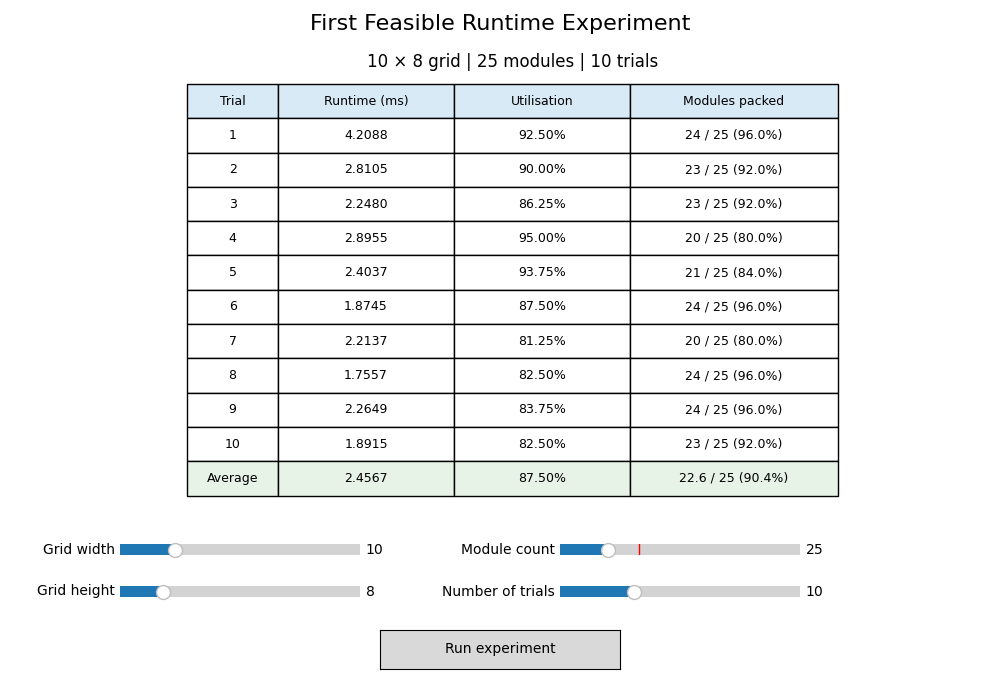
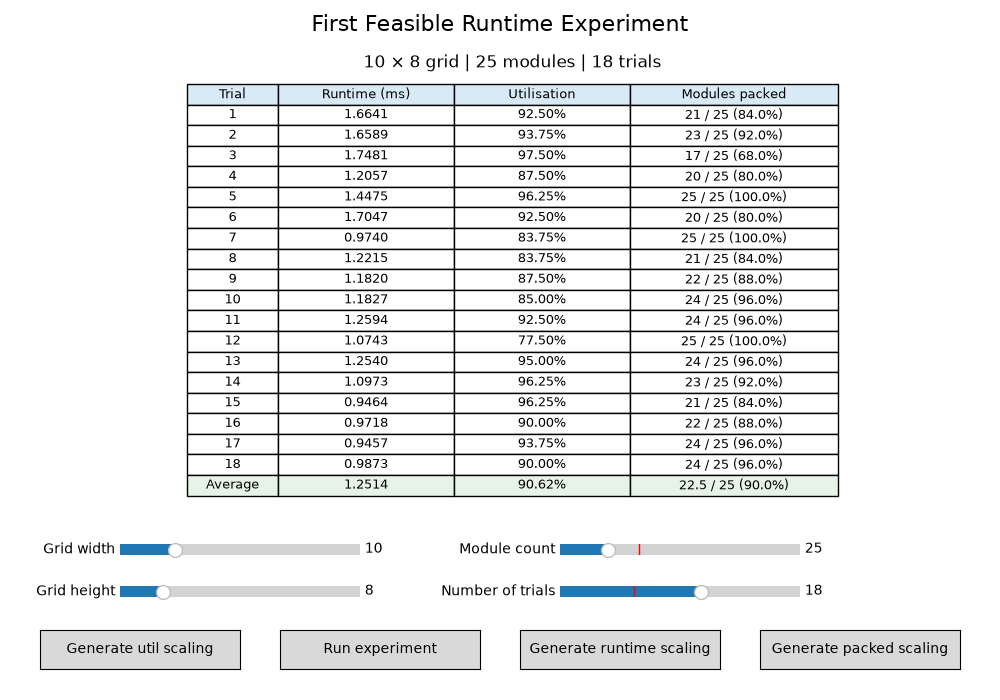
finish up docs

diff --git a/Research/2d Bin Packing/README.md b/Research/2d Bin Packing/README.md
@@ -31,7 +31,7 @@ matplotlib visualiser for inspecting the results interactively.
 
 ### 2.1 The 2D Bin Packing Problem
 
-In a survey by Lodi, Martello & Monaci, the problem of two-dimensional
+In a survey by Lodi, Martello & Monaci (2002), the problem of two-dimensional
 bin packing (2D-BPP) is described as fitting *n* rectangular items into the minimum
 number of identical rectangular bins of width *w* and height *h* [1]. It can be applied 
 in areas such as cutting materials, loading and transportation, where objects cannot
@@ -74,37 +74,31 @@ following rules:
 
 ### 3.1 Next Fit Decreasing Height (NFDH)
 
-The Next Fit Decreasing Height algorithm was one of the heuristics I
-looked at. In this approach, rectangles are sorted by decreasing height and
-placed into the current bin until the next rectangle no longer fits, at which
-point a new bin is started. My continuous Next Fit implementation is kept in
-`cont_bin_packing` folder as part of this work.
+Christensen et al. (2017) describe NFDH as ordering the items from tallest to shortest, before placing them into "shelves". Each shelf consists of items placed next to each other with their bases aligned horizontally, with the first shelf starting at the bottom of the bin and subsequent shelves placed with its base resting flat on top of the tallest item in the shelf below [2].
 
 ### 3.2 First Fit (FF)
 
-Skyline packing was also considered as an alternative approach for the
-investigation.
+First Fit is a simple algorithm where items are considered one at a time. Johnson et al. (1974) describe it as placing each item into the first bin in which it fits. If it cannot be placed in any of the existing bins, a new bin is opened. [3] Once an item has been placed, the algorithm does not at any point go back and change its position. Because of this, the algorithm is less efficient than "enumerate" approaches, but it is certainly faster.
 
-### 3.3 MaxRects
+### 3.3 Maximal Rectangles (MaxRects)
 
-MaxRects was considered alongside First Feasible and shelf-based packing.
+In Jukka Jylänki's paper A Thousand Ways To Pack The Bin, he describes MaxRects as an algorithm that divides the bin into the largest rectangular regions available [4]. When an item is placed, these regions are updated to represent the space that remains available. The algorithm then chooses a suitable free rectangle for the next item using a heuristic such as Best Area Fit or Best Short Side Fit. This allows MaxRects to make use of irregular spaces left by previously placed items. Although it is an efficient algorithm, its complexity costs significant runtime.
 
 ## 4. Methodology
 
-I considered several packing approaches, including First Feasible, MaxRects,
-and shelf-based packing. I selected First Feasible because its simple control
-flow makes it a practical candidate for implementation in Blender Geometry
-Nodes.
+After considering these approaches I felt that First Fit was the most practical 
+candidate for implementation in Blender Geometry Nodes. However, there were 
+some parts of the algorithm, like how it involved multiple bins, that differed from 
+my end goal. Thus, I adapted it into a new algorithm called First Feasible.
 
-First Feasible depends on the order of the modules. For example, presenting
-modules in the order
-`3×3 -> 2×2 -> 1×3` can produce a completely different packing from presenting
-the same modules as `1×3 -> 3×3 -> 2×2`.
+First Feasible depends on the order of the modules. For example, inputting
+modules in the order *3×3 -> 2×2 -> 1×3* can result in a completely different 
+packing from inputting the same modules as *1×3 -> 3×3 -> 2×2*.
 
-For each module, the algorithm scans the grid in its configured direction and
+For each module, the algorithm scans the grid in the configured direction and
 immediately selects the first position where the module fits. It does not
 compare all feasible positions or reconsider earlier placements to improve the
-final result. The visualiser provides six scan-order variants:
+final result. My visualiser provides six scan-order variants:
 
 - Bottom to Top, Left to Right
 - Bottom to Top, Right to Left
@@ -113,37 +107,38 @@ final result. The visualiser provides six scan-order variants:
 - Left to Right, Bottom to Top
 - Right to Left, Bottom to Top
 
-The algorithm also has an application-specific completion step. The
+The algorithm also includes a completion step specific for my application. The
 `_fill_empty_cells()` method adds `1×1` filler modules to any cells that remain
 empty after the requested modules have been processed. This completion step is
-not inherently part of First Feasible. I added it because the building-face
-use case requires a completely filled grid. Filler modules are marked with
-`is_filler=True`, so they can be distinguished from the originally generated
-modules when calculating utilisation and analysing the results.
+not inherently part of the First Feasible algorithm. I simply added it because the 
+building facade use case requires a completely filled grid. Filler modules are marked 
+with the attribute `is_filler=True`, so they can be distinguished from the originally 
+generated modules when calculating utilisation (the proportion of cells successfully filled 
+by the packing algorithm) and analysing the results.
 
 ### 4.1 Visualisation and experimentation
 
-The Matplotlib visualiser connects First Feasible to an interactive grid
+The Matplotlib visualiser connects `first_feasible.py` to an interactive grid
 representation. It allows the grid dimensions, module count, module-size
-weights, and scan-order variant to be changed. It reports runtime, requested
-module cells, filler cells, occupied cells, and utilisation. The controls
-update the packing so the effect of each parameter can be inspected without
-manually rebuilding the experiment.
+weights, and scan-order variant to be changed. It reports the runtime, requested
+module cells, number of filler cells, occupied cells, and utilisation. The controls
+update the packing in real time so that the effect of each parameter can be inspected 
+without re-running the experiment.
 
 ## 5. Experiments
 
-The `stats_gen.py` script provides a separate quantitative experiment. It runs
-multiple trials for a fixed grid and module count, then reports runtime,
+The `stats_gen.py` script is a separate quantitative experiment. It can run
+up to 30 trials for a set grid size and module count, then reports runtime,
 utilisation, and the proportion of requested modules successfully packed for
-each trial. It also generates scaling graphs for these measures as the module
-count changes.
+each trial. It also has options generate scaling graphs for each of these measures 
+as the module count changes.
 
 ## 6. Results
 
 ### 6.1 Visual Evidence
 
-The following renders show some example outputs from the First Feasible
-visualiser:
+The following renders show some snapshots of the First Feasible visualiser output
+during different stages as I worked on cleaning up its interface.
 
 ![First Feasible packing](disc_bin_packing/algorithms/First%20Feasible.png)
 
@@ -157,43 +152,40 @@ The placement process is shown in the animation below:
 
 ![First Feasible animation](disc_bin_packing/algorithms/First%20Feasible%20(Anim).gif)
 
-The scaling experiments produced the following graphs using a fixed 10 × 8
-grid:
+The scaling experiments produced the following graphs using a fixed 10 × 8 grid/bin:
 
-![Runtime scaling](disc_bin_packing/Scaling_Experiments/Runtime%20Scaling.png)
+![Runtime scaling](Runtime%20Scaling.png)
 
-![Utilisation scaling](disc_bin_packing/Scaling_Experiments/Utilisation%20Scaling.png)
+![Utilisation scaling](Utilisation%20Scaling.png)
 
-![Packed-module scaling](disc_bin_packing/Scaling_Experiments/Packed%20Scaling.png)
+![Packed-module scaling](Packed%20Scaling.png)
 
-![Convergence point](disc_bin_packing/Scaling_Experiments/Convergence_Point.png)
+![Convergence point](Convergence_Point.png)
 
 ### 6.2 Experimental Observations
 
-For the scaling experiments, I kept the grid at 10 × 8 cells and varied the
+For the scaling experiments, I kept the grid at 10 × 8 cells and varied the 
 target module count.
 
 **Utilisation**
 
 Utilisation initially increases as the module count increases. This is
-expected: more requested modules generally occupy more cells, so fewer filler
-modules are needed to complete the grid. At a module count of approximately
-40, the grid was almost uniformly at 100% utilisation.
+expected expected as the requested modules are all successfully packed until the 
+grid starts to fill up. At a module count of around 40, the grid was almost uniformly 
+at 100% utilisation.
 
 The trend eventually levels off and can dip slightly. Once the grid becomes
-dense, the order-dependent placements can create fragmented gaps that cannot
-be used. These gaps can prevent later modules from fitting even when some cell
-area is still available. Filler modules still complete the physical grid, but
-they are excluded from the useful-module utilisation measure.
+dense, the order-dependent placements can cause fragmentation, creating gaps 
+that cannot be used. These gaps can prevent future modules from fitting even though
+some cells are still available. Filler modules still complete the physical grid, but
+they are excluded from the useful module utilisation calculation.
 
 **Runtime**
 
-Runtime follows a fairly linear upward trend as the module count increases.
-Each additional requested module creates more placement work, and the
-algorithm checks candidate positions until it finds a feasible one or runs out
-of grid space. As the module count grows, the runtime trend becomes less
-uncertain. This suggests that latency becomes more predictable when the
-algorithm has a larger and more consistent amount of work to perform.
+Runtime follows quite a linear upward trend as the module count increases because 
+each additional requested module creates more work. As the module count grows, 
+the uncertainty in the gradient decreases. This suggests that latency becomes more 
+predictable when a larger amount of work has to be done.
 
 **Successfully Packed Modules**
 
@@ -210,9 +202,9 @@ later module from fitting even when enough total area appears to remain.
 
 ## 7. Discussion
 
-These results suggest that First Feasible is a good fit for Blender Geometry
-Nodes when speed, simplicity, and predictable behaviour matter more than
-optimal packing.
+These results show that First Feasible is a good fit for Blender Geometry
+Nodes where speed, simplicity, and predictable behaviour matters more than
+getting an optimal packing.
 
 Its main strengths are:
 
@@ -233,28 +225,30 @@ become significant.
 
 ## 8. Application to Metropolis
 
-For this use case, First Feasible is a strong candidate for interactive and
-exploratory facade generation. A more powerful offline pass could be added
-later for final production layouts. In the meantime, ordering larger modules
-first, reserving regions for large modules, or comparing the six scan
-directions can reduce fragmentation without giving up the algorithm's speed
-and procedural simplicity.
+The final aim of this research is to apply my First Feasible algorithm to my procedural building generator, _Metropolis_. The algorithm will determine where each architectural module can be placed on a predefined discrete facade grid, while ensuring that modules do not overlap or extend beyond the building. 
+
+In Geometry Nodes, I plan to use the ***grid*** node followed by ***mesh to points*** and ***instance on points*** to generate the cells. I will then implement the algorithm using Blender's ***repeat zone*** as well as boolean nodes like ***and***, ***or*** and ***not*** to control which cells are being selected. I will use an "occupied" ***attribute*** to control which cells are chosen to place modules on. 
+
+The algorithm's output will determine the coordinates and module types, which can then be used to instance the corresponding geometry. This separates the computational problem of deciding where modules can be placed from the visual design of the modules themselves, allowing different facade styles to be generated using the same underlying algorithm.
 
 ## 9. Conclusion
 
-First Feasible works well for interactive and exploratory facade generation
+First Feasible works quite well for quick and interactive facade generation
 when speed, simplicity, and predictable behaviour matter more than optimal
 packing. It produces valid, completely filled grid representations, but its
-dependence on order and its tendency to create fragmentation make it less
+dependence on order and its tendency to create fragmentation makes it less
 suitable when every requested module must be placed or material efficiency is
 important.
 
-These results came from a fixed 10 × 8 grid for the scaling experiments, so
+**Note**: these results came from a fixed 10 × 8 grid for the scaling experiments, so
 the observed thresholds should not be treated as universal properties of the
 First Feasible algorithm. Different grid dimensions, module distributions, and
 ordering strategies may produce different results.
 
 ## References
 
-No external references are currently listed.
+1. Lodi, A., Martello, S. and Monaci, M. (2002). ‘Two-dimensional packing problems: A survey’. _European Journal of Operational Research_, 141(2), pp. 241–252. DOI: 10.1016/S0377-2217(02)00123-6.
+2. Christensen, H. I., Khan, A., Pokutta, S. and Tetali, P. (2017). ‘Approximation and online algorithms for multidimensional bin packing: A survey’. _Computer Science Review_, 24, pp. 63–79. DOI: 10.1016/j.cosrev.2016.12.001.
+3. Johnson, D. S., Demers, A., Ullman, J. D., Garey, M. R. and Graham, R. L. (1974). ‘Worst-Case Performance Bounds for Simple One-Dimensional Packing Algorithms’. _SIAM Journal on Computing_, 3(4), pp. 299–325. DOI: 10.1137/0203025.
+4. Jylänki, J. (2010). ‘A Thousand Ways to Pack the Bin – A Practical Approach to Two-Dimensional Rectangle Bin Packing’. Technical report.
 
